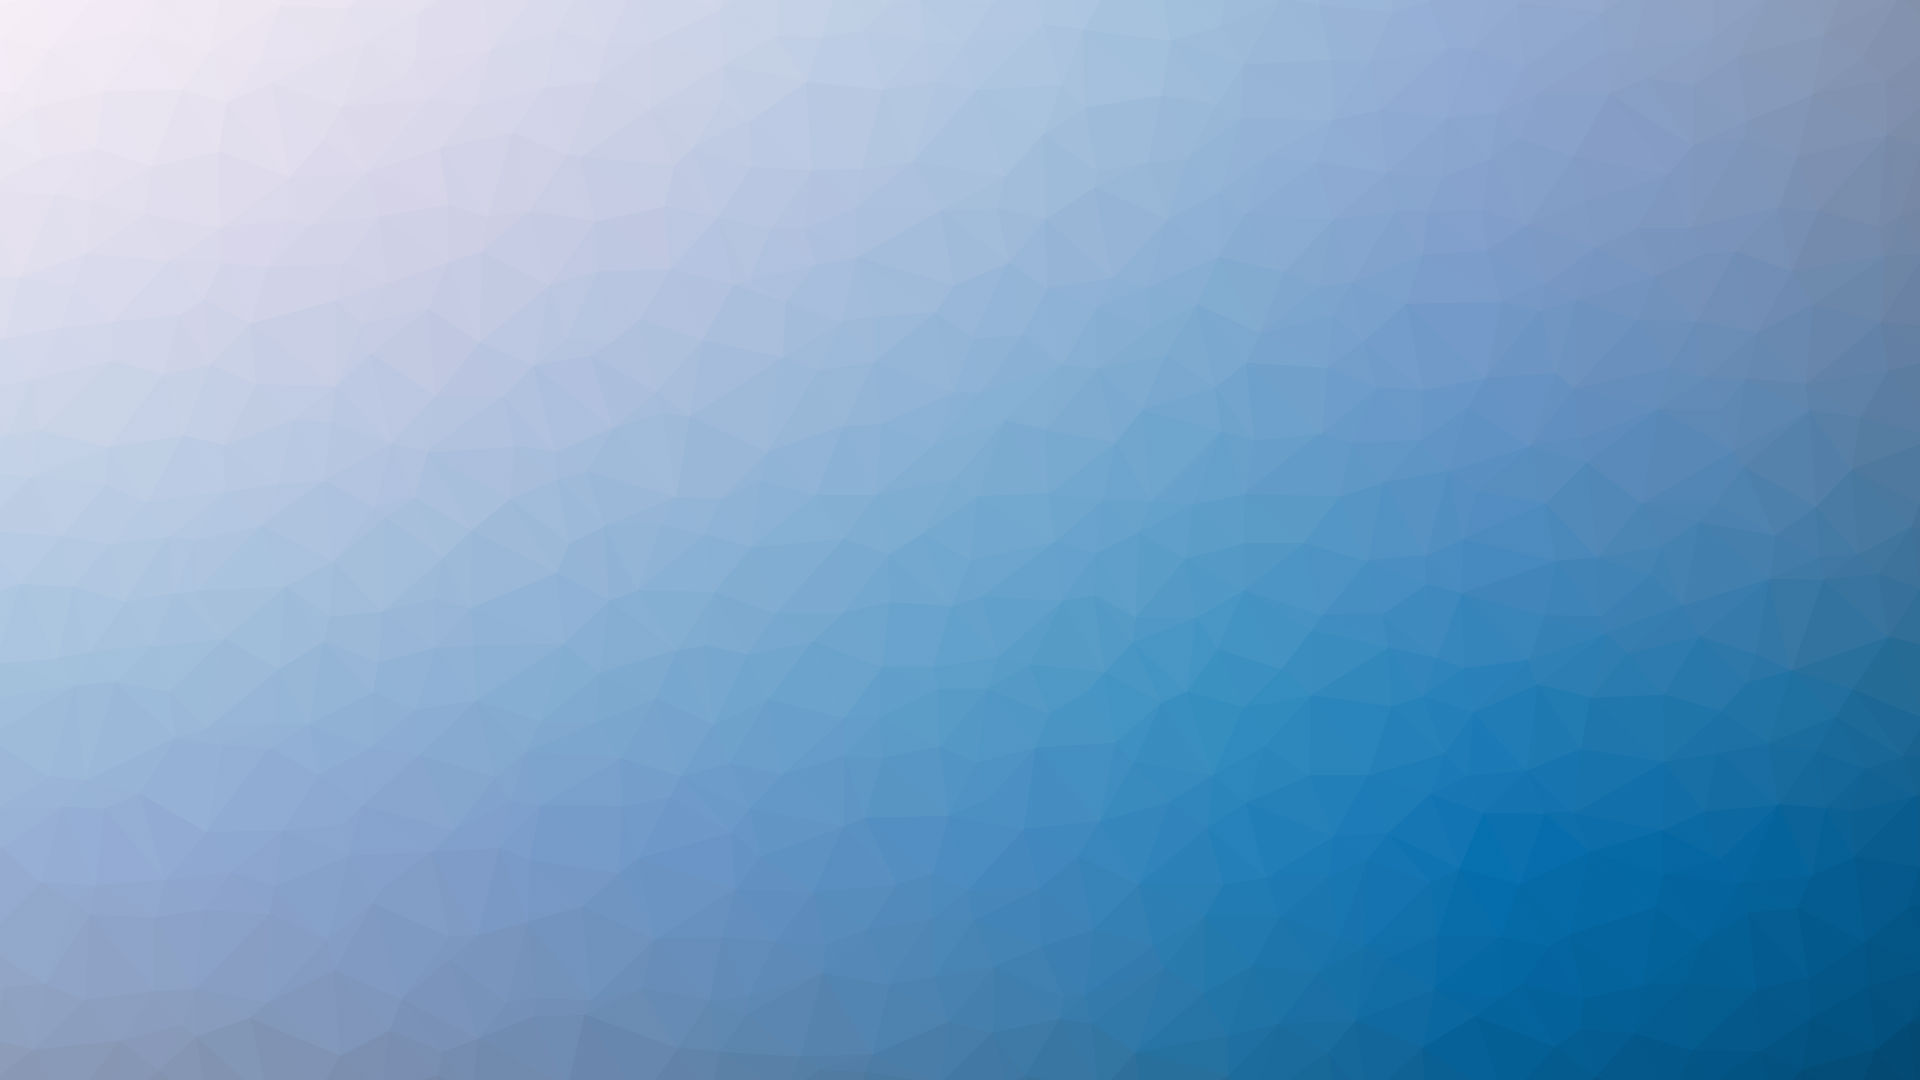
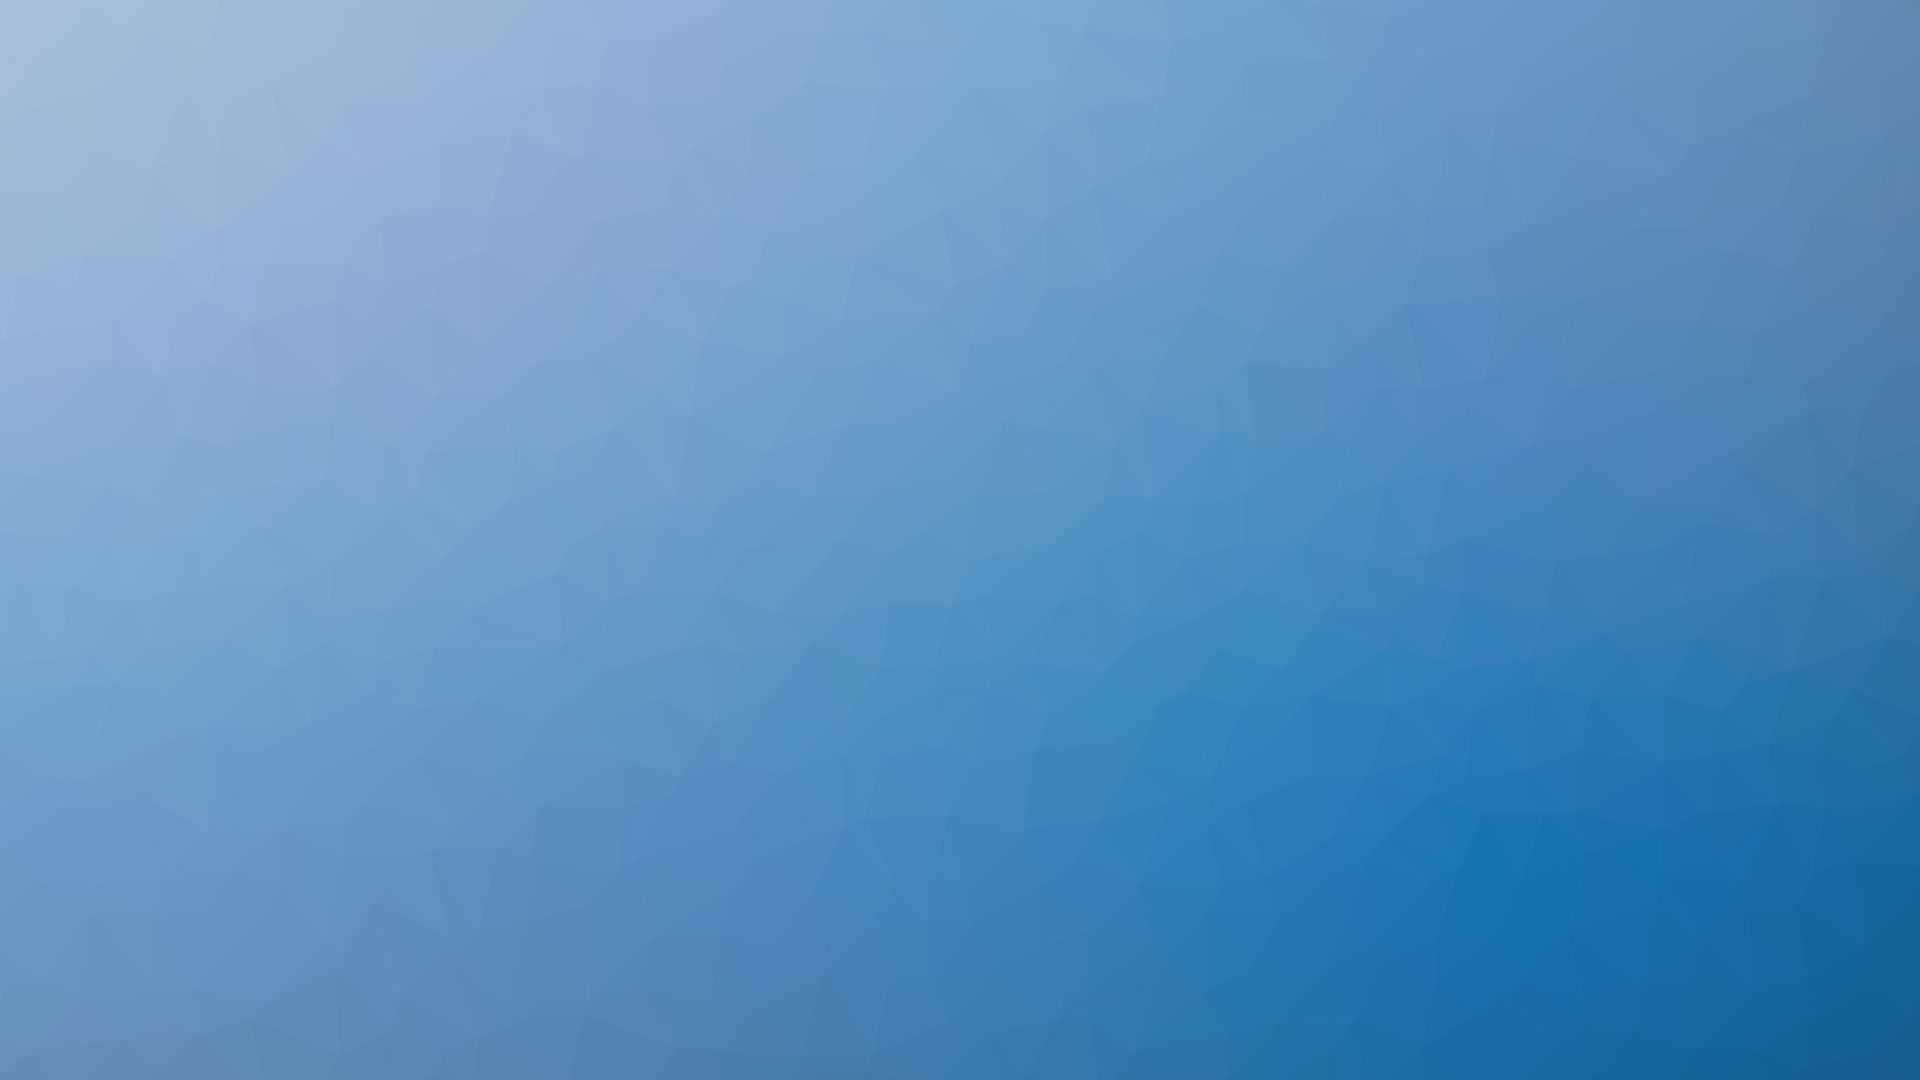
BG image colour
Background images updated

diff --git a/index.html b/index.html
@@ -38,6 +38,15 @@
     </head>
     <body>
 	
+				<nav class="cd-vertical-nav">
+	<ul>
+		<li><a href="#slide-1" class="active"><span class="label">Intro</span></a></li>
+		<li><a href="#slide-2"><span class="label">Resume</span></a></li>
+		<li><a href="#slide-3"><span class="label">Help</span></a></li>
+		<li><a href="#slide-4"><span class="label">Share</span></a></li>
+	</ul>
+</nav><!-- .cd-vertical-nav -->
+	
 
         <!--[if lt IE 7]>
             <p class="chromeframe">You are using an <strong>outdated</strong> browser. Please <a href="http://browsehappy.com/">upgrade your browser</a> or <a href="http://www.google.com/chromeframe/?redirect=true">activate Google Chrome Frame</a> to improve your experience.</p>
@@ -49,14 +58,7 @@
 	       	<img src="img/bcg_slide-3.jpg">
        	</div>
 		
-			<nav class="cd-vertical-nav">
-	<ul>
-		<li><a href="#slide-1" class="active"><span class="label">Intro</span></a></li>
-		<li><a href="#slide-2"><span class="label">Resume</span></a></li>
-		<li><a href="#slide-3"><span class="label">Help</span></a></li>
-		<li><a href="#slide-4"><span class="label">Share</span></a></li>
-	</ul>
-</nav><!-- .cd-vertical-nav -->
+
        	
        	<main>
        	 
@@ -64,12 +66,12 @@
 	        	<div class="bcg">
 				<div class="hsContent section-1">
                 <div class="row">
-                    <div class="col-lg-12">
+
                         <h1 class="heading">HaydenSmith</h1>
 						<h2 class="heading">Front-end Developer</h2>
 						 <a class="page-scroll" href="#services"><i class=
                         "fa main fa-angle-down"></i></a>
-                  </div>
+
                 </div>
 		        	
 	        	</div>
@@ -81,7 +83,7 @@
 			    	<div class="hsContainer">
 				<div class="hsContent section-2">
 				<div class="row">
-                        <div class="col-lg-6">
+                        <div class="col-lg-4">
 						<div class="box">
                                 <img alt="pic" class="box profile-pic" src=
                                 "img/smith.jpg"/>
@@ -141,7 +143,7 @@
                         </div>
 
 
-                        <div class="col-lg-6"><img alt="CV" class="cvimg" src=
+                        <div class="col-lg-8"><img alt="CV" class="cvimg" src=
                         "img/cvfeb16.jpg">
                         </div>
 
@@ -158,7 +160,7 @@
 				<div class="bcg">
 			    	<div class="hsContainer">
 		    			 <div class="container port" style="padding:100px;" id="portfolio">
-<div class="col-sm-12">
+<div class="row">
 	<section class="Collage effect-parent" style=
         "margin: 0px -20px; height=100%">
             <div class="Image_Wrapper" data-caption="Woods Trophies Website">

diff --git a/css/main.css b/css/main.css
@@ -19,9 +19,11 @@ body {
 }
 
 /*
- * Remove text-shadow in selection highlight: h5bp.com/i
+ * Removetwitcht-shadow in selection highlight: h5bp.com/i
  * These selection rule sets have to be separate.
  * Customize the background color to match your design.
+ * Clour Scheme: https://coolors.co/app/337ab7-534d4d-ffffff-c6c5b9-4a6d7c
+
  */
 
 ::-moz-selection {
@@ -134,6 +136,7 @@ main {
 	background-repeat: no-repeat;
 	background-attachment: fixed;
 	background-size: cover;
+	background-color: #C6C5B9;
 	height: 100%;
 	width: 100%;
 	font-family: 'Roboto',sans-serif;
@@ -190,7 +193,7 @@ display: table;}
 
 
 /* Slide 3 */
-#slide-3 .bcg {background-image:url('../img/bcg_slide-3.jpg');}
+#slide-3 .bcg {background-image:url('../img/cloud.jpg');}
 #slide-3 .hsContent {
 	margin-left: -239px;
 }
@@ -507,7 +510,6 @@ img.box.profile-pic {
 .cvimg {
 	margin-top: 100px;
     height: 650px;	
-	display: table-cell;
     vertical-align: middle;
 	 position: relative;
 }

diff --git a/css/style.css b/css/style.css
@@ -13,7 +13,7 @@ html {
 
 body {
   font-size: 1.6rem;
-  font-family: "Sintony", sans-serif;
+
   color: #eaf2e3;
   background-color: #3a2c41;
   -webkit-font-smoothing: antialiased;
@@ -202,7 +202,7 @@ Vertical navigation
     left: 0;
     width: 100%;
     height: 100%;
-    background: rgba(255,255,255,0.5);
+    background: rgba(255,255,255,0.2);
     -webkit-transform: translateX(100%);
     -moz-transform: translateX(100%);
     -ms-transform: translateX(100%);
@@ -466,7 +466,7 @@ no-js
   height: auto;
   width: 100%;
   max-width: none;
-  background-color: rgba(0, 0, 0, 0.8);
+  background-color: rgba(255, 255, 255, 0.2);
   border-radius: 0;
   -webkit-transform: scale(1);
   -moz-transform: scale(1);
